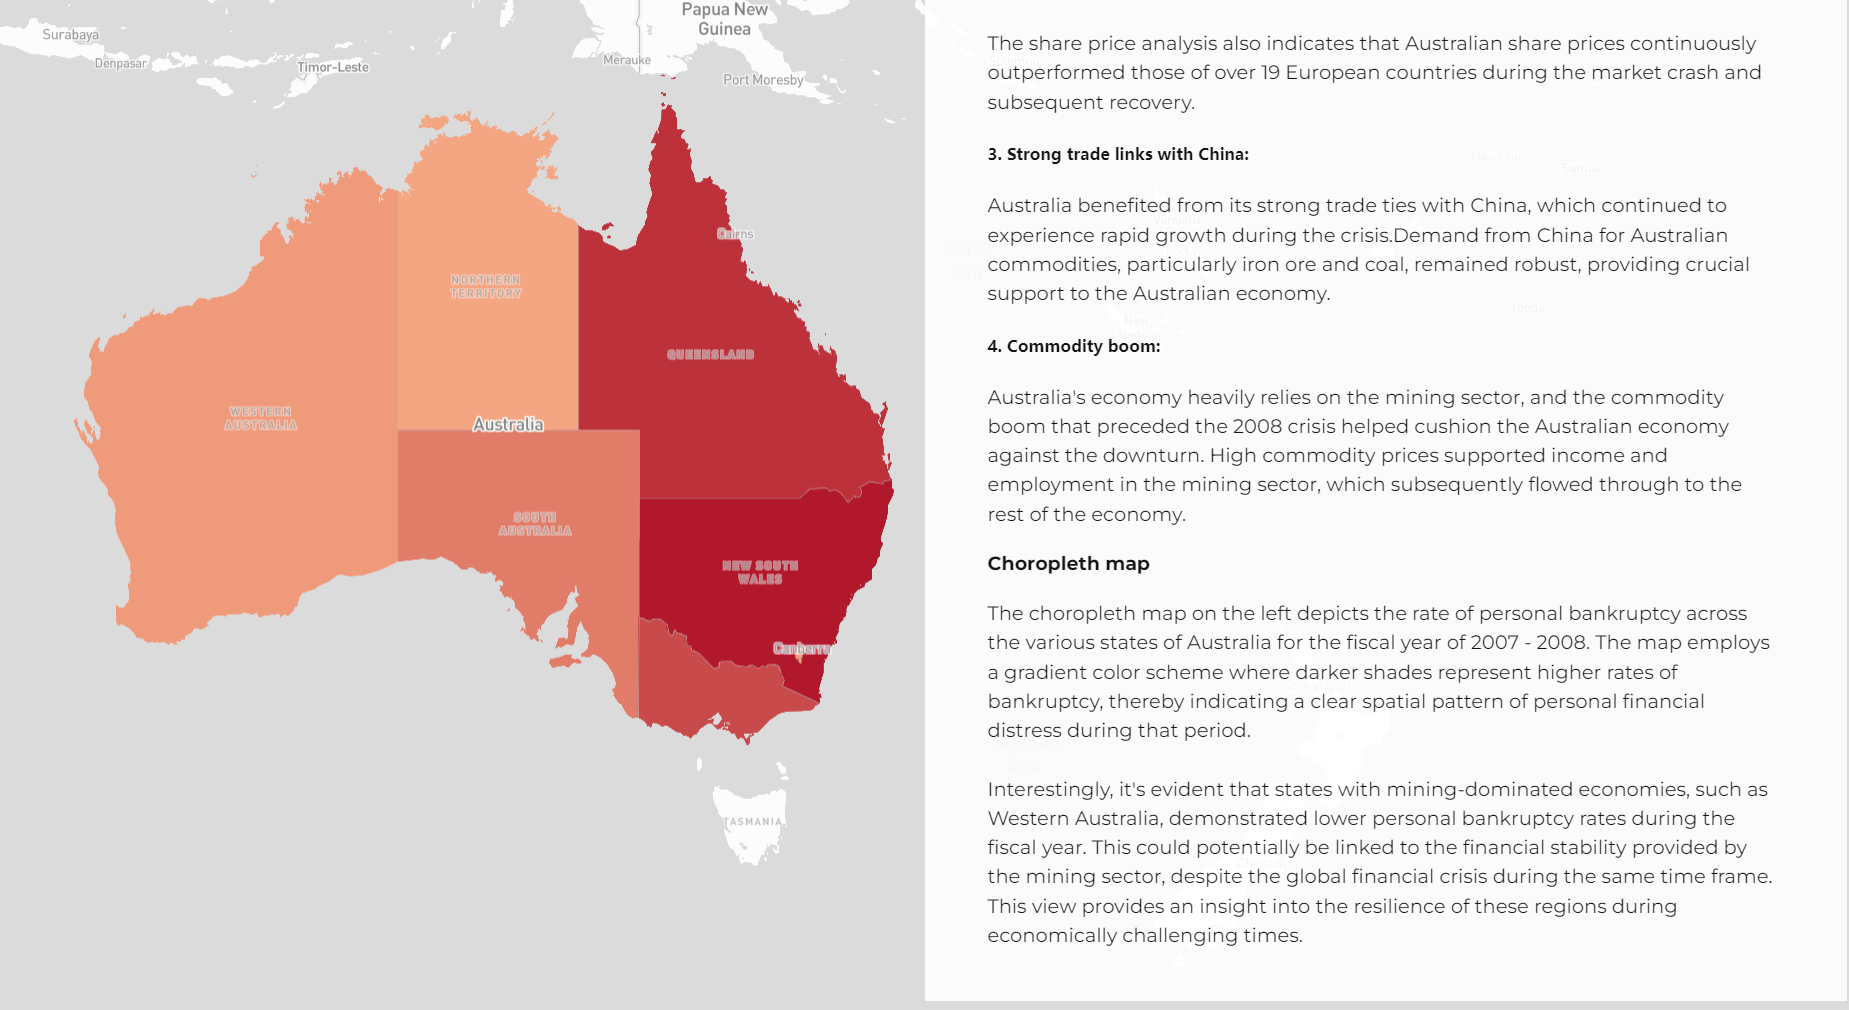
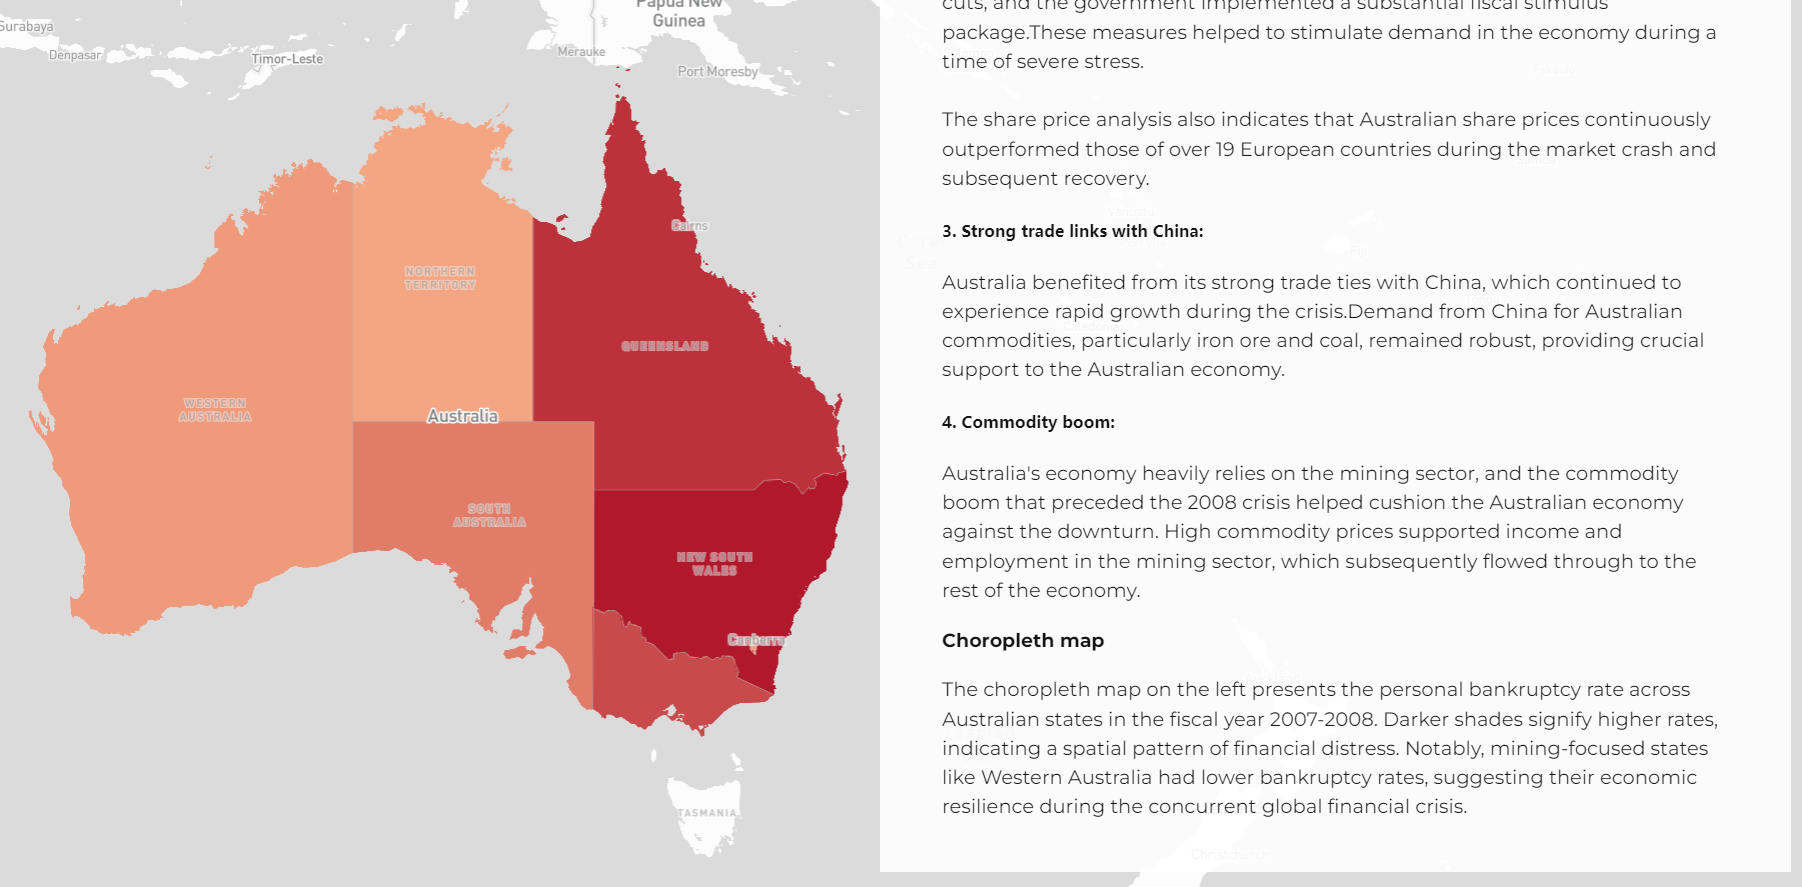
resolved the invisable chapter

diff --git a/storytelling/config.js b/storytelling/config.js
@@ -99,7 +99,7 @@ let divChapter12 =
   '<h4>3. Strong trade links with China:</h4>' +
   "<p>Australia benefited from its strong trade ties with China, which continued to experience rapid growth during the crisis.Demand from China for Australian commodities, particularly iron ore and coal, remained robust, providing crucial support to the Australian economy.</p >" +
   '<h4>4. Commodity boom:</h4>' + '<p>Australia\'s economy heavily relies on the mining sector, and the commodity boom that preceded the 2008 crisis helped cushion the Australian economy against the downturn. High commodity prices supported income and employment in the mining sector, which subsequently flowed through to the rest of the economy.</p>' +
-  '<h3>Choropleth map</h3>' + '<p> The choropleth map on the left depicts the rate of personal bankruptcy across the various states of Australia for the fiscal year of 2007 - 2008. The map employs a gradient color scheme where darker shades represent higher rates of bankruptcy, thereby indicating a clear spatial pattern of personal financial distress during that period.<br> <br>Interestingly, it\'s evident that states with mining-dominated economies, such as Western Australia, demonstrated lower personal bankruptcy rates during the fiscal year. This could potentially be linked to the financial stability provided by the mining sector, despite the global financial crisis during the same time frame. This view provides an insight into the resilience of these regions during economically challenging times.</p>'
+  '<h3>Choropleth map</h3>' + '<p> The choropleth map on the left presents the personal bankruptcy rate across Australian states in the fiscal year 2007-2008. Darker shades signify higher rates, indicating a spatial pattern of financial distress. Notably, mining-focused states like Western Australia had lower bankruptcy rates, suggesting their economic resilience during the concurrent global financial crisis.</p>'
 
 // reasons on cities
 let divChapter13 =
